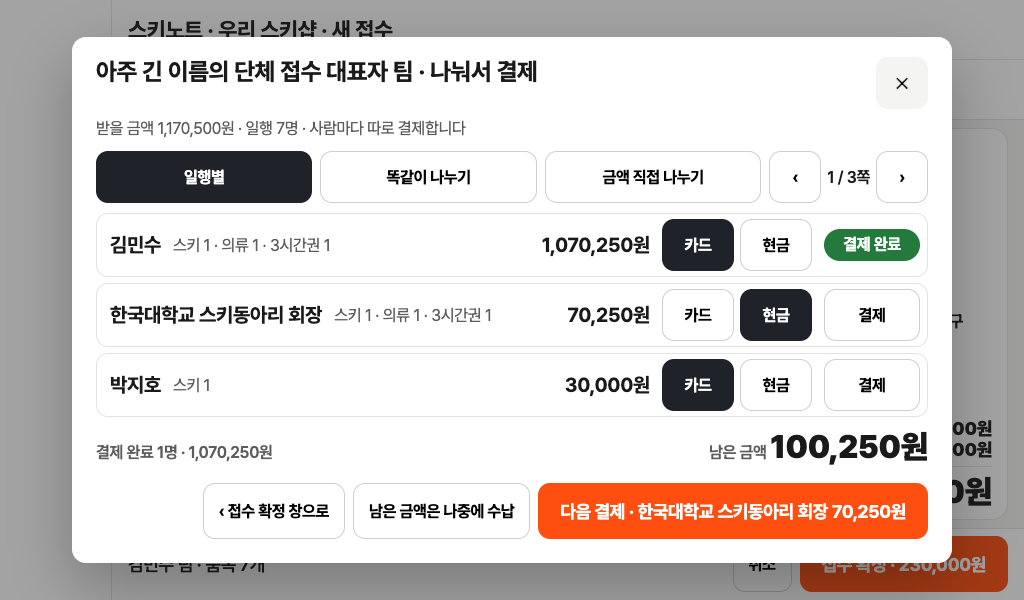
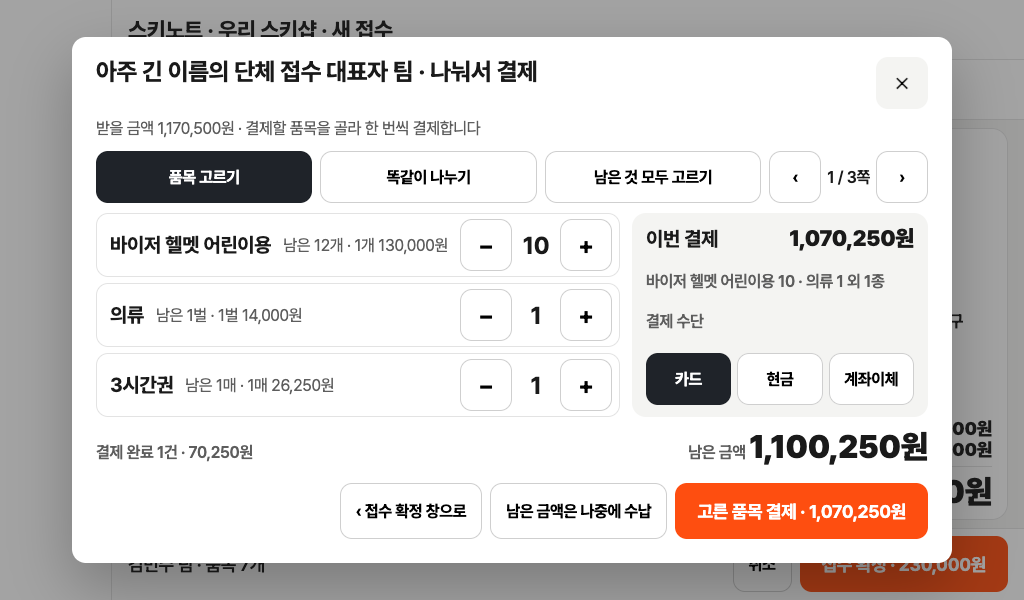
design(higgsfield): split payment by picking items (S08R)
Preview and record of S08R, which replaces the per-person split: only the
representative's name is known for walk-ins, so the window lists the unpaid
items with −/+ and pays one chosen bundle at a time. docs/44 and the
real-size check (526px of 552 at 1024×600) are updated. UI only.

diff --git a/design/higgsfield/pos-settings-v1/index.html b/design/higgsfield/pos-settings-v1/index.html
@@ -1,6 +1,6 @@
 <!doctype html><html lang="ko"><meta charset="utf-8"><meta name="viewport" content="width=device-width,initial-scale=1"><title>스키노트 시안 · 매장 설정과 접수 확정</title>
 <style>body{margin:0;background:#f3f1f8;color:#242031;font:17px/1.6 system-ui,sans-serif}header,main{max-width:1400px;margin:auto;padding:28px}h1{margin:0 0 6px}main{display:grid;grid-template-columns:repeat(auto-fill,minmax(520px,1fr));gap:20px;padding-top:0}article{background:#fff;border-radius:14px;padding:16px;box-shadow:0 1px 0 #ded9ec}h2{margin:0;font-size:19px}.v{margin:2px 0 10px;color:#5f33e1;font-weight:700;font-size:15px}img{width:100%;border-radius:10px;border:1px solid #e3e3e3;display:block}article p:last-child{margin:10px 0 0;font-size:16px}</style>
-<header><h1>스키노트 시안 · 매장 설정과 접수 확정 (pos-settings-v1)</h1><p>2026-09-21 · 8장 · 24 크레딧 · 다시 뽑기 0 · 요청서 <a href="../../../docs/44-higgsfield-settings-payment-screens.md">docs/44</a> · <a href="fit-check/index.html">실제 크기 검사</a></p></header>
+<header><h1>스키노트 시안 · 매장 설정과 접수 확정 (pos-settings-v1)</h1><p>2026-09-21 · 9장 · 27 크레딧 · 다시 뽑기 0 · 요청서 <a href="../../../docs/44-higgsfield-settings-payment-screens.md">docs/44</a> · <a href="fit-check/index.html">실제 크기 검사</a></p></header>
 <main>
 <article><h2>S01 · 관리 · 매장 설정 · 수령 장소(구역별)</h2><p class="v">통과 · 참조 M06 + M01</p><a href="s01-settings-places.jpg"><img src="s01-settings-places.jpg" alt="관리 · 매장 설정 · 수령 장소(구역별)" loading="lazy"></a><p>구역 칩(만선 5 · 설천 4 · 기타 3 · 구역 추가) 아래에 고른 구역의 장소만 행으로 보인다. 왼쪽 탭 8개(할인 추가), 하단에 `스키장 템플릿` · `장소 추가`. 레일 7개 · 헤더 완전. 샘플 표기: `매장 정보` 옆 숫자 0은 요청에 없던 값(기록만).</p></article>
 <article><h2>S02 · 팝업 · 스키장 템플릿</h2><p class="v">통과 · 참조 M06 + P20</p><a href="s02-popup-resort-template.jpg"><img src="s02-popup-resort-template.jpg" alt="팝업 · 스키장 템플릿" loading="lazy"></a><p>왼쪽에서 스키장을 고르면 오른쪽에 채워지는 값(구역 · 수령 장소 · 반납 타임 · 리프트권 권종)이 보인다. `요금과 할인은 바뀌지 않습니다` · `이미 있는 값은 지우지 않고 없는 항목만 추가합니다` 안내 포함. 어두운 배경(부모 화면)의 레일 오탈자는 배경이라 기록만.</p></article>
@@ -9,5 +9,6 @@
 <article><h2>S06 · 팝업 · 수령 장소 선택(구역별)</h2><p class="v">통과 · 참조 P12 + P20</p><a href="s06-popup-place.jpg"><img src="s06-popup-place.jpg" alt="팝업 · 수령 장소 선택(구역별)" loading="lazy"></a><p>구역 칩으로 구역을 바꾸고 장소를 3열 큰 버튼(64px)으로 고른다. 빈 칸은 `직접 입력`. 하단 `취소` · `매장 수령으로` · `이 장소로 선택`. 어두운 배경의 깨진 시간 글자는 배경이라 기록만.</p></article>
 <article><h2>S07 · 팝업 · 접수 확정 · 할인과 수납</h2><p class="v">S07R로 대체 · 참조 P12 + P21</p><a href="s07-popup-confirm-payment.jpg"><img src="s07-popup-confirm-payment.jpg" alt="팝업 · 접수 확정 · 할인과 수납" loading="lazy"></a><p>장비 대여와 리프트권을 두 칸으로 나눠 각각 금액 · 할인 버튼 · 할인액 · 결제 수단 · 받을 금액을 보인다. 아래에 합계, 하단 `취소` · `나중에 수납` · `수납하고 접수 확정 · N원`. 메모: 왼쪽 아래 요약의 `받을 47,500원`은 `할인 47,500원`의 오기(한 낱말) — 구현은 `할인`. 주 버튼 글자가 작게 그려짐 — 구현은 18px.</p></article>
 <article><h2>S07R · 팝업 · 접수 확정 · 할인 종류 넷 + 나눠서 결제 (S07 고침)</h2><p class="v">통과 · 참조 P12 + S07</p><a href="s07r-popup-confirm-payment.jpg"><img src="s07r-popup-confirm-payment.jpg" alt="팝업 · 접수 확정 · 할인 종류 넷 + 나눠서 결제 (S07 고침)" loading="lazy"></a><p>사용자 답변(2026-09-21) 반영: 장비 할인은 `없음` · `장비당 할인 / 하루 5,000원` · `% 할인 / 선택` · `금액 할인 / 선택` 네 칸 중 하나만. 숫자가 규칙과 맞음(스키 3 · 의류 2 · 2일 → −42,000원, 합계 170,500원, 요약 `할인 59,500원 · 카드 118,000원 · 현금 52,500원`). 하단에 `나눠서 결제` 입구. 두 줄 버튼의 작은 글자는 구현에서 16px.</p></article>
-<article><h2>S08 · 팝업 · 나눠서 결제(일행별)</h2><p class="v">통과 · 참조 P12 + S07</p><a href="s08-popup-split-payment.jpg"><img src="s08-popup-split-payment.jpg" alt="팝업 · 나눠서 결제(일행별)" loading="lazy"></a><p>더치페이 창. 나누는 방법 세 칸(`일행별` · `똑같이 나누기` · `금액 직접 나누기`), 일행마다 품목 · 금액 · `카드/현금` · `결제`(끝나면 초록 `결제 완료`), 아래 `남은 금액`, 하단 `‹ 접수 확정 창으로` · `남은 금액은 나중에 수납` · 주 버튼 `다음 결제 · 이서연 70,250원`. 화면만 그린 것이고 카드 단말 연동은 나중.</p></article>
+<article><h2>S08 · 팝업 · 나눠서 결제(일행별)</h2><p class="v">S08R로 대체 · 참조 P12 + S07</p><a href="s08-popup-split-payment.jpg"><img src="s08-popup-split-payment.jpg" alt="팝업 · 나눠서 결제(일행별)" loading="lazy"></a><p>더치페이 창. 나누는 방법 세 칸(`일행별` · `똑같이 나누기` · `금액 직접 나누기`), 일행마다 품목 · 금액 · `카드/현금` · `결제`(끝나면 초록 `결제 완료`), 아래 `남은 금액`, 하단 `‹ 접수 확정 창으로` · `남은 금액은 나중에 수납` · 주 버튼 `다음 결제 · 이서연 70,250원`. 화면만 그린 것이고 카드 단말 연동은 나중.</p></article>
+<article><h2>S08R · 팝업 · 나눠서 결제(품목 고르기 · S08 고침)</h2><p class="v">통과 · 참조 P12 + S08</p><a href="s08r-popup-split-by-items.jpg"><img src="s08r-popup-split-by-items.jpg" alt="팝업 · 나눠서 결제(품목 고르기 · S08 고침)" loading="lazy"></a><p>사용자 지적(2026-09-21) 반영: 현장 대여는 대표자 이름만 적으므로 사람별로 나눌 수 없다 → **남은 품목에서 수량을 골라 한 묶음씩 결제.** 위에 `품목 고르기` · `똑같이 나누기` · `남은 것 모두 고르기`, 왼쪽에 품목 행(남은 수량 · 하나 값 · −/+), 오른쪽 `이번 결제` 금액과 `카드 · 현금 · 계좌이체`, 아래 `결제 완료 1건` · `남은 금액`, 하단 `‹ 접수 확정 창으로` · `남은 금액은 나중에 수납` · 주 버튼 `고른 품목 결제 · 70,250원`. 샘플 표기: 의류 줄의 `1별`은 `1벌`의 오기(기록만).</p></article>
 </main></html>

diff --git a/design/higgsfield/pos-settings-v1/fit-check/index.html b/design/higgsfield/pos-settings-v1/fit-check/index.html
@@ -26,7 +26,7 @@ button{font:inherit;letter-spacing:inherit;min-height:52px;border:0;border-radiu
 .dfoot{display:flex;justify-content:flex-end;gap:8px;padding-top:6px}.chips{display:flex;gap:8px}.grid{display:grid;grid-template-columns:repeat(3,1fr);gap:8px}.grid button{min-height:64px;font-size:20px}
 .note{color:#5d5d5d;line-height:22px}
 body[data-show="s06"] #d6,body[data-show="s07"] #d7,body[data-show="s08"] #d8{display:flex}
-.people{display:flex;flex-direction:column;gap:6px}.person{display:flex;align-items:center;gap:12px;min-height:64px;padding:6px 8px 6px 14px;border-radius:12px;box-shadow:inset 0 0 0 1px #e3e3e3;min-width:0}.person strong{flex:0 1 auto;min-width:0;overflow:hidden;white-space:nowrap;font-size:20px}.person>span:not(.btns):not(.done){flex:1 1 0;min-width:0;overflow:hidden;white-space:nowrap;color:#5d5d5d}.person>b{flex:0 0 auto;font-size:20px;white-space:nowrap}.person .btns{flex:0 0 150px}.done{flex:0 0 96px;text-align:center;background:#247a3d;color:#fff;border-radius:999px;font-weight:700;line-height:32px}.person>.sec{flex:0 0 96px}
+.people{display:flex;flex-direction:column;gap:6px}.person{display:flex;align-items:center;gap:12px;min-height:64px;padding:6px 8px 6px 14px;border-radius:12px;box-shadow:inset 0 0 0 1px #e3e3e3;min-width:0}.person strong{flex:0 1 auto;min-width:0;overflow:hidden;white-space:nowrap;font-size:20px}.person>span:not(.btns):not(.done):not(.stp){flex:1 1 0;min-width:0;overflow:hidden;white-space:nowrap;color:#5d5d5d}.person>b{flex:0 0 auto;font-size:20px;white-space:nowrap}.person .btns{flex:0 0 150px}.done{flex:0 0 96px;text-align:center;background:#247a3d;color:#fff;border-radius:999px;font-weight:700;line-height:32px}.person>.sec{flex:0 0 96px}.split2{display:grid;grid-template-columns:1.35fr 1fr;gap:12px}.stp{flex:0 0 auto;display:flex;align-items:center;gap:6px}.stp button{width:52px;font-size:24px;padding:0}.stp b{min-width:36px;text-align:center;font-size:24px}.pay{justify-content:space-between}
 </style>
 <body>
 <div class="frame"><div class="rail"></div><div class="work">
@@ -59,15 +59,18 @@ body[data-show="s06"] #d6,body[data-show="s07"] #d7,body[data-show="s08"] #d8{di
   </div>
   <div class="line total"><span id="split">할인 47,500원 · 카드 1,130,000원 · 현금 52,500원</span><span>합계 <b>1,182,500원</b></span></div>
   <div class="dfoot"><button class="sec">취소</button><button class="sec">나중에 수납</button><button class="sec">나눠서 결제</button><button class="primary">수납하고 접수 확정 · 1,182,500원</button></div></div></div></div>
-<div class="dim" id="d8"><div class="dlg" id="dlg8" style="--w:880px"><header><h2>아주 긴 이름의 단체 접수 대표자 팀 · 나눠서 결제</h2><button>✕</button></header><div class="in"><p class="sub">받을 금액 1,170,500원 · 일행 7명 · 사람마다 따로 결제합니다</p>
-  <div class="row" style="gap:8px"><div class="chips" style="flex:1 1 0"><button class="opt on">일행별</button><button class="opt">똑같이 나누기</button><button class="opt">금액 직접 나누기</button></div><span style="flex:0 0 auto;display:flex;gap:6px;align-items:center;font-weight:600"><button style="width:52px">‹</button> 1 / 3쪽 <button style="width:52px">›</button></span></div>
-  <div class="people">
-    <div class="person"><strong>김민수</strong><span>스키 1 · 의류 1 · 3시간권 1</span><b>1,070,250원</b><span class="btns"><button class="opt on">카드</button><button class="opt">현금</button></span><span class="done">결제 완료</span></div>
-    <div class="person"><strong>한국대학교 스키동아리 회장</strong><span>스키 1 · 의류 1 · 3시간권 1</span><b>70,250원</b><span class="btns"><button class="opt">카드</button><button class="opt on">현금</button></span><button class="sec">결제</button></div>
-    <div class="person"><strong>박지호</strong><span>스키 1</span><b>30,000원</b><span class="btns"><button class="opt on">카드</button><button class="opt">현금</button></span><button class="sec">결제</button></div>
+<div class="dim" id="d8"><div class="dlg" id="dlg8" style="--w:880px"><header><h2>아주 긴 이름의 단체 접수 대표자 팀 · 나눠서 결제</h2><button>✕</button></header><div class="in"><p class="sub">받을 금액 1,170,500원 · 결제할 품목을 골라 한 번씩 결제합니다</p>
+  <div class="row" style="gap:8px"><div class="chips" style="flex:1 1 0"><button class="opt on">품목 고르기</button><button class="opt">똑같이 나누기</button><button class="opt">남은 것 모두 고르기</button></div><span style="flex:0 0 auto;display:flex;gap:6px;align-items:center;font-weight:600"><button style="width:52px">‹</button> 1 / 3쪽 <button style="width:52px">›</button></span></div>
+  <div class="split2">
+    <div class="people">
+      <div class="person"><strong>바이저 헬멧 어린이용</strong><span>남은 12개 · 1개 130,000원</span><span class="stp"><button>−</button><b>10</b><button>+</button></span></div>
+      <div class="person"><strong>의류</strong><span>남은 1벌 · 1벌 14,000원</span><span class="stp"><button>−</button><b>1</b><button>+</button></span></div>
+      <div class="person"><strong>3시간권</strong><span>남은 1매 · 1매 26,250원</span><span class="stp"><button>−</button><b>1</b><button>+</button></span></div>
+    </div>
+    <div class="card pay"><div class="head"><span>이번 결제</span><b>1,070,250원</b></div><span class="lab" style="white-space:nowrap;overflow:hidden">바이저 헬멧 어린이용 10 · 의류 1 외 1종</span><span class="lab">결제 수단</span><div class="btns"><button class="opt on">카드</button><button class="opt">현금</button><button class="opt">계좌이체</button></div></div>
   </div>
-  <div class="line total"><span>결제 완료 1명 · 1,070,250원</span><span>남은 금액 <b>100,250원</b></span></div>
-  <div class="dfoot"><button class="sec">‹ 접수 확정 창으로</button><button class="sec">남은 금액은 나중에 수납</button><button class="primary">다음 결제 · 한국대학교 스키동아리 회장 70,250원</button></div></div></div></div>
+  <div class="line total"><span>결제 완료 1건 · 70,250원</span><span>남은 금액 <b>1,100,250원</b></span></div>
+  <div class="dfoot"><button class="sec">‹ 접수 확정 창으로</button><button class="sec">남은 금액은 나중에 수납</button><button class="primary">고른 품목 결제 · 1,070,250원</button></div></div></div></div>
 </div>
 <script>document.body.dataset.show=location.hash.slice(1)||'s05';</script>
 </body></html>

diff --git a/design/higgsfield/README.md b/design/higgsfield/README.md
@@ -50,4 +50,4 @@
 | `pos-main-v1/` | POS 메인 화면 8종 + 목록 비교안 1종 | [docs/38-higgsfield-pos-main-screens.md](../../docs/38-higgsfield-pos-main-screens.md) | 9장 생성·검수 완료 (2026-09-21, 14장·42 크레딧) · [보기](pos-main-v1/index.html) |
 | `pos-rest-v1/` | 나머지 화면 33종: 포스 화면 9 · 팝업 13 · 관리 8 · 기사 태블릿 3 | [docs/40-higgsfield-pos-rest-screens.md](../../docs/40-higgsfield-pos-rest-screens.md) | 같은 템플릿(앵커 P01) + 기준 화면 4종(P02R 카드 목록 · M01 관리 · P20 팝업 · D01 기사) · [보기](pos-rest-v1/index.html) |
 | `driver-phone-v1/` | 기사 휴대폰 화면 4종(차량 운행 · 배달 처리 · 차량 보관 · 못 받음·방문 결과) · 세로 9:16 · 기준 360×640 | [docs/41-higgsfield-driver-phone-screens.md](../../docs/41-higgsfield-driver-phone-screens.md) | 4장 · 12 크레딧 · 재생성 0 · 실제 크기 검사 포함 · [보기](driver-phone-v1/index.html) |
-| `pos-settings-v1/` | 매장 설정(구역별 수령 장소 · 스키장 템플릿 · 할인) 3종 + 새 접수 3단계(구역 버튼 · 반납 타임) 1종 + 팝업 2종(수령 장소 선택 · 접수 확정의 할인·수납) | [docs/44-higgsfield-settings-payment-screens.md](../../docs/44-higgsfield-settings-payment-screens.md) | 8장 · 24 크레딧 · 재생성 0(S07R은 답변 반영 새 판) · 나눠서 결제(더치페이) 화면 포함 · 실제 크기 검사 포함(2026-09-21) · [보기](pos-settings-v1/index.html) |
+| `pos-settings-v1/` | 매장 설정(구역별 수령 장소 · 스키장 템플릿 · 할인) 3종 + 새 접수 3단계(구역 버튼 · 반납 타임) 1종 + 팝업 2종(수령 장소 선택 · 접수 확정의 할인·수납) | [docs/44-higgsfield-settings-payment-screens.md](../../docs/44-higgsfield-settings-payment-screens.md) | 9장 · 27 크레딧 · 재생성 0(S07R · S08R은 답변 반영 새 판) · 나눠서 결제는 품목 고르기 방식(S08R) · 실제 크기 검사 포함(2026-09-21) · [보기](pos-settings-v1/index.html) |
